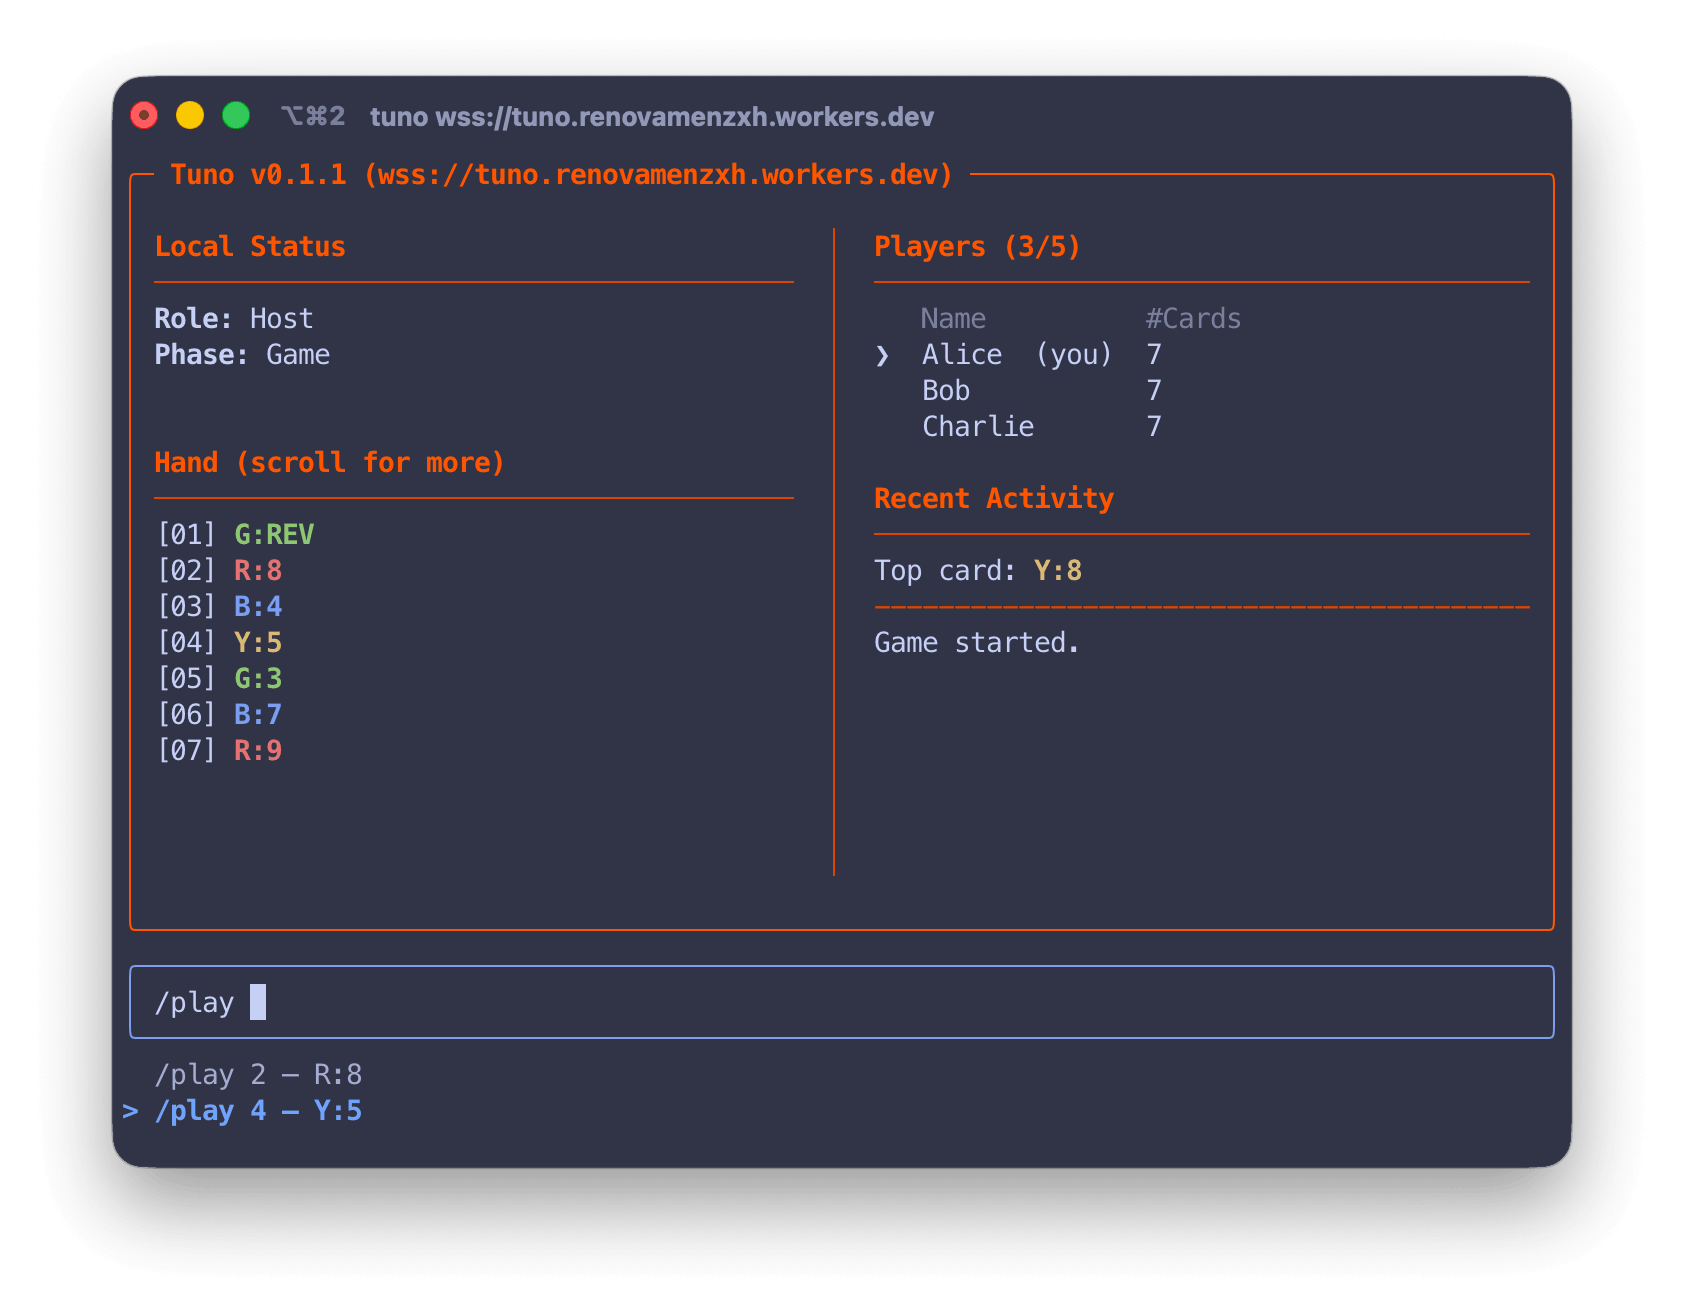
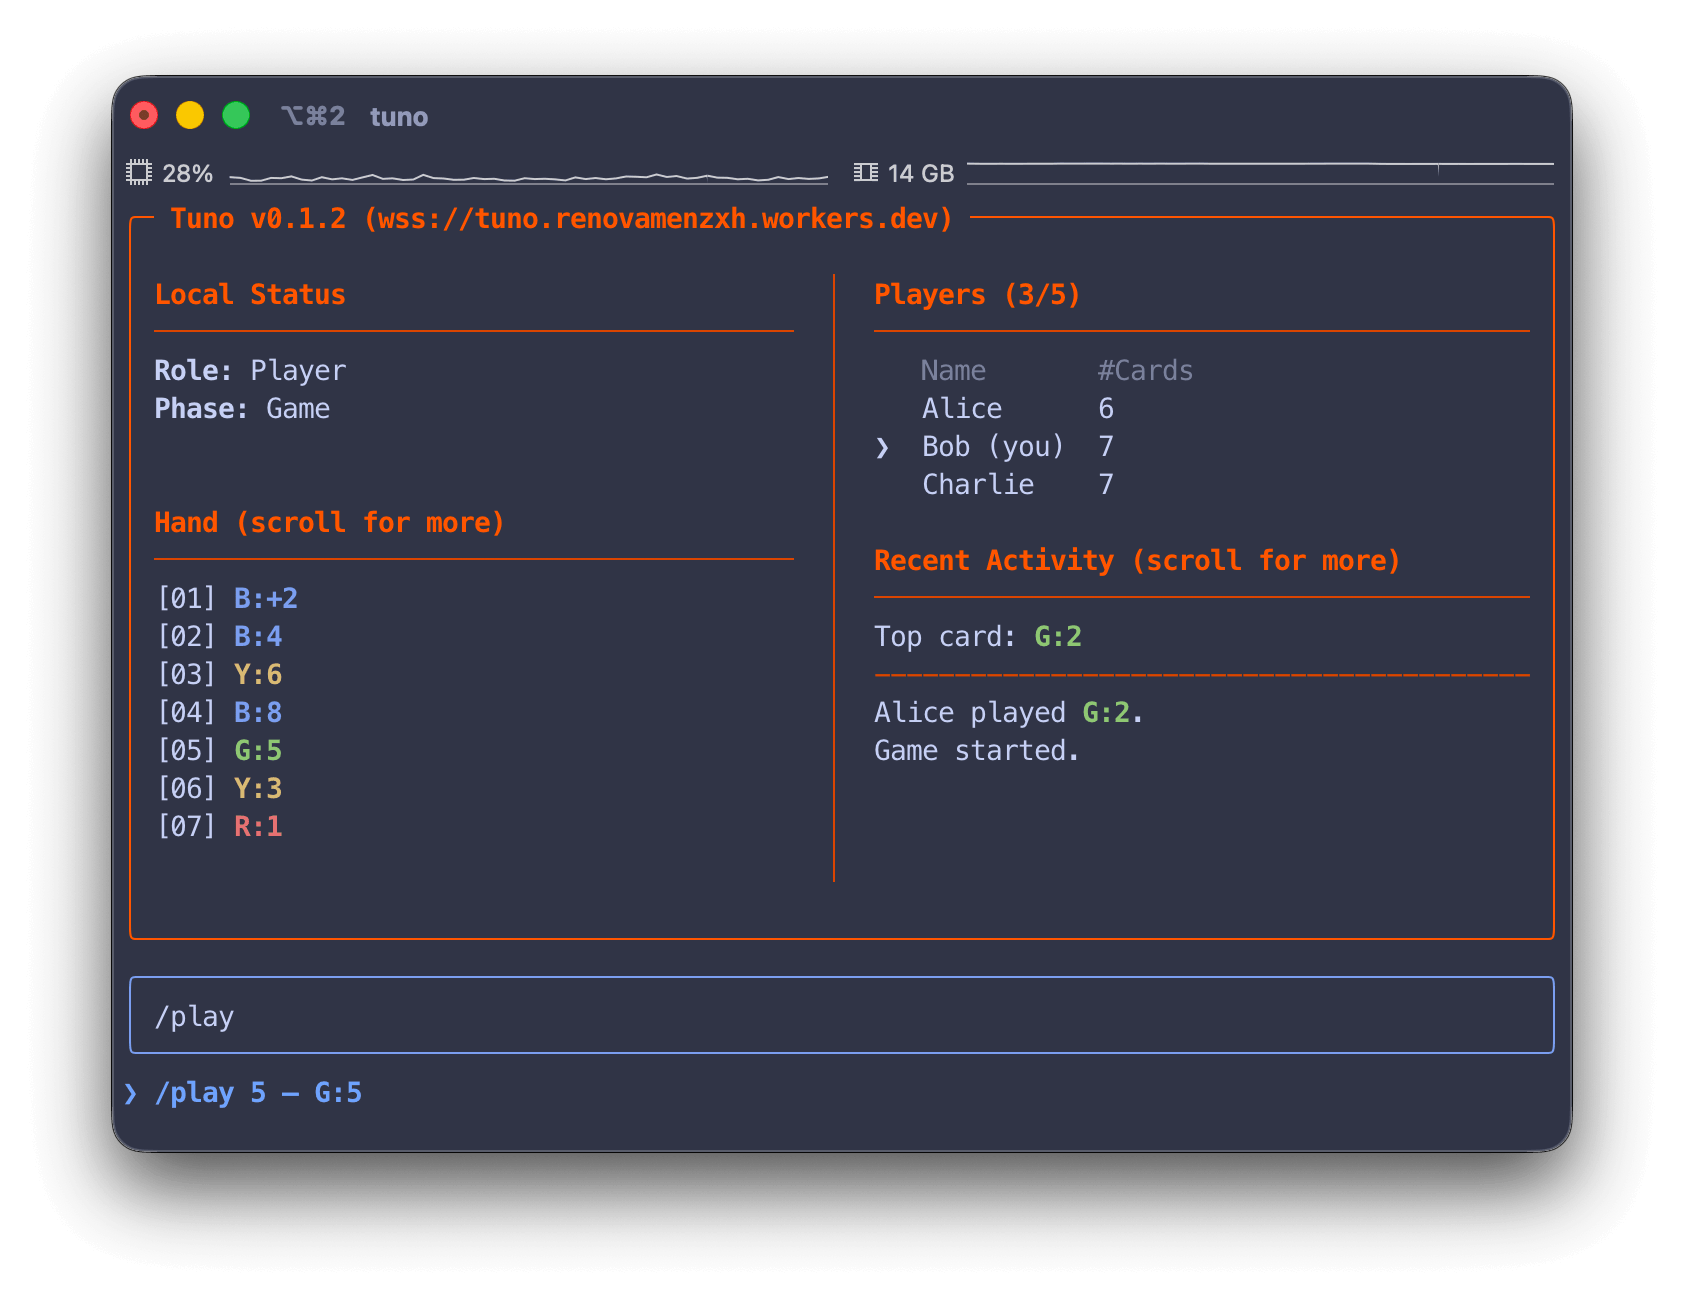
docs: update screenshot, add update instruction

Changed region(s): [[0.0309, 0.0615, 0.9572, 0.9538], [0.247, 0.0615, 0.5558, 0.0923]]

diff --git a/README.md b/README.md
@@ -34,12 +34,21 @@ source ~/.bashrc
 ```
 </details>
 
-#### Uninstall:
+#### Update
+
+Tuno can update itself if a new version is available:
+
+```bash
+tuno update
+```
+
+#### Uninstall
 
 ```bash
 rm -rf ~/.local/share/tuno ~/.local/bin/tuno ~/.config/tuno
 ```
 
+&nbsp;
 ## Server
 
 Here is a hosted server you can try:
@@ -63,6 +72,7 @@ uv run pywrangler deploy
 **Option 2:** Fork this repo and import the fork into your
 [Cloudflare dashboard](https://developers.cloudflare.com/workers/get-started/dashboard/).
 
+&nbsp;
 ## How to play
 
 Start the client app:
@@ -94,6 +104,7 @@ Note: You can always type `Tab` to autocomplete the current command.
 - A drawn card is immediately playable if it is valid.
 - `Wild +4` is rejected if the player still has a non-wild card matching the current color.
 
+&nbsp;
 ## Todo
 
 - [ ] Multiple game rooms
@@ -101,6 +112,7 @@ Note: You can always type `Tab` to autocomplete the current command.
 - [ ] More players
 - [ ] Chat
 
+&nbsp;
 ## Development
 
 Check [DEVELOP.md](DEVELOP.md) for development instructions.

diff --git a/DEVELOP.md b/DEVELOP.md
@@ -25,6 +25,7 @@ For client binary builds, install the build extra:
 python -m pip install -e ".[build]"
 ```
 
+&nbsp;
 ## Run Locally
 
 Start the server:
@@ -45,6 +46,7 @@ Then connect from inside the TUI:
 /server ws://127.0.0.1:8765
 ```
 
+&nbsp;
 ## Cloudflare Workers
 
 Local development:
@@ -63,6 +65,7 @@ The Worker supports an optional `?game=<name>` query parameter. If omitted, it u
 
 If you change the Durable Object class name or add more Durable Objects later, update the `durable_objects.bindings` and `migrations` sections in [`wrangler.jsonc`](wrangler.jsonc) before deploying.
 
+&nbsp;
 ## Tests
 
 ```bash
@@ -71,12 +74,14 @@ python -m ruff check .
 python -m ruff format --check .
 ```
 
+&nbsp;
 ## Lint
 
 ```bash
 python -m ruff format .
 ```
 
+&nbsp;
 ## Build Client Binary
 
 ```bash
@@ -91,6 +96,7 @@ Verify the generated command:
 ./dist/tuno/tuno --help
 ```
 
+&nbsp;
 ## Install a Local Release Asset
 
 ```bash
@@ -119,6 +125,7 @@ TUNO_APP_DIR=/tmp/tuno-install-app \
 /tmp/tuno-install-bin/tuno --help
 ```
 
+&nbsp;
 ## Release Workflow
 
 The GitHub Actions workflow in `.github/workflows/release-client.yml` builds client-only release assets for: